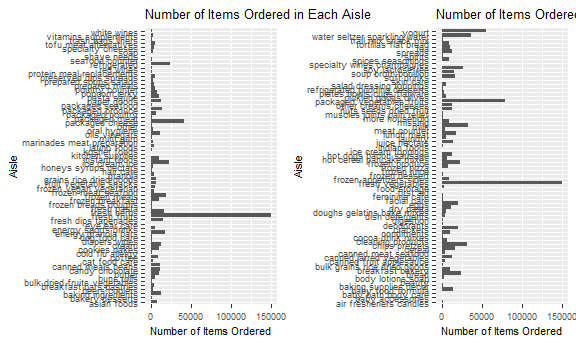
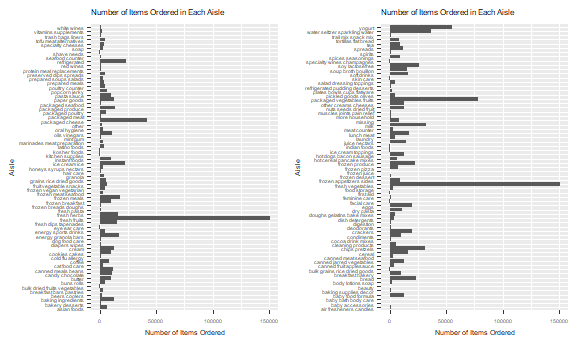
make sure the axes are readable in the github document

diff --git a/p8105_hw3_cj2493.md b/p8105_hw3_cj2493.md
@@ -133,7 +133,7 @@ instacart_num_items_1 = instacart %>%
   ggplot(aes(x = aisle, y = items_ordered)) +
   geom_bar(stat = "identity") +
   labs(x = "Aisle", y = "Number of Items Ordered", title = "Number of Items Ordered in Each Aisle", cex = 0.5) +
-  theme(text = element_text(size = 8)) +
+  theme(text = element_text(size = 5)) +
   coord_flip()
 
 instacart_num_items_2 = instacart %>%
@@ -143,7 +143,7 @@ instacart_num_items_2 = instacart %>%
   ggplot(aes(x = aisle, y = items_ordered)) +
   geom_bar(stat = "identity") +
   labs(x = "Aisle", y = "Number of Items Ordered", title = "Number of Items Ordered in Each Aisle") +
-  theme(text = element_text(size = 8)) +
+  theme(text = element_text(size = 5)) +
   coord_flip()
 
 instacart_num_items_1 + instacart_num_items_2
